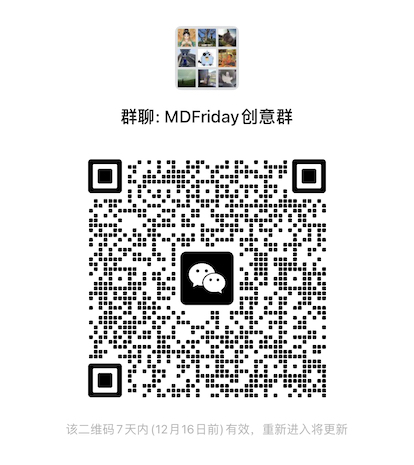
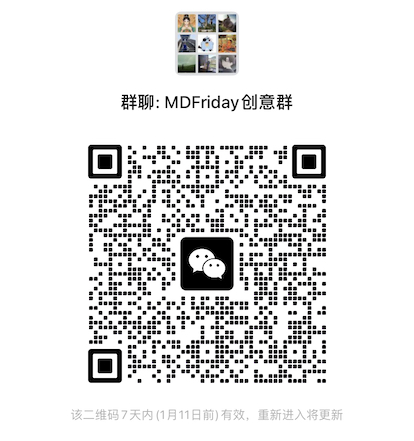
add 007 book

Changed region(s): [[0.2029, 0.3243, 0.8116, 0.8844], [0.2899, 0.0295, 0.7246, 0.2653], [0.1449, 0.9138, 0.8406, 0.9728]]

diff --git a/slides/content/007-book/_index.md b/slides/content/007-book/_index.md
@@ -1,0 +1,18 @@
++++
+title = "韦德说"
+description = "MVP for Hugoverse"
+outputs = ["Reveal"]
+[reveal_hugo]
+custom_theme = "reveal-hugo/themes/robot-lung.css"
+margin = 0.2
+highlight_theme = "color-brewer"
+transition = "slide"
+transition_speed = "fast"
+[reveal_hugo.templates.hotpink]
+class = "hotpink"
+background = "#FF4081"
++++
+
+# 韦德说
+
+品源码，聊开源，实现商业闭环。

diff --git a/slides/content/007-book/home/04.idea.md b/slides/content/007-book/home/04.idea.md
@@ -1,0 +1,17 @@
++++
+weight = 40
++++
+{{< slide id=idea >}}
+
+你觉得Friday可以帮你做什么？
+
+加入我们！
+
+---
+
+{{< slide id=qrcode >}}
+
+![Group 二维码](qrcode.jpg)
+
+
+

diff --git a/slides/content/007-book/home/01.pre.md b/slides/content/007-book/home/01.pre.md
@@ -1,0 +1,10 @@
++++
+weight = 10
++++
+{{< slide id=pre >}}
+
+## 更新
+
+- Friday 0.2.1 已发布，支持多语言
+- 新主题：Hugo Book
+- Demo

diff --git a/slides/content/007-book/home/05.thanks.md b/slides/content/007-book/home/05.thanks.md
@@ -1,0 +1,10 @@
++++
+weight = 50
++++
+{{< slide id=thanks >}}
+
+# 谢谢
+
+Peace
+
+![MDFriday](mdfriday-logo.png)
